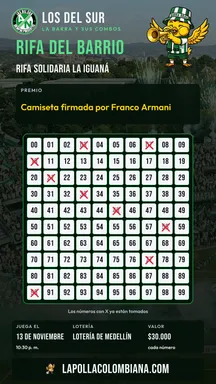
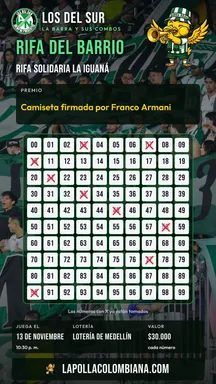
Use real Los Del Sur photos as raffle story backgrounds
The owner asked for the six Los Del Sur story templates to use real photos
of the barra instead of generated art. Each template now sits on a photo
from the official @ldsoficial Instagram account (the owner has the barra's
permission), cropped to 1080x1920 by scripts/bake-rifa-lds-fondos.py.

- Prize, date and domain panels stay nearly opaque; the board is
  semi-transparent so the photo shows around it.
- Header, title and raffle name get a text shadow (new optional
  nameShadow on StoryFrame; other templates are unchanged).
- Thumbnails regenerated; tests require a distinct photo per template.

diff --git a/lib/rifas/story-templates/designs-lds.tsx b/lib/rifas/story-templates/designs-lds.tsx
@@ -2,7 +2,10 @@
 // las de La Polla (StoryFrame): cambia el arte. Encabezado con el escudo de la
 // barra, pollito barrista grande arriba a la derecha y La Polla solo en el pie,
 // pequeña, junto al dominio. Fotos y escudo vienen como data URIs locales.
-import type { ReactNode } from "react";
+//
+// (2026-11-07, pedido del dueño) Las seis llevan de fondo una foto REAL de la
+// barra, del Instagram oficial @ldsoficial (scripts/bake-rifa-lds-fondos.py):
+// nada de arte generado. Los paneles dejan ver la foto alrededor del tablero.
 import { display, StoryFrame, type Treatment } from "./common";
 import type { StoryProps } from "./types";
 
@@ -10,17 +13,27 @@ const GREEN = "#1E9A44";
 const GREEN_LIGHT = "#5BE08A";
 const NIGHT = "#06140C";
 const WHITE = "#F5F7FA";
-const PANEL = "rgba(5, 18, 11, 0.9)";
+/** Premio, fecha y dominio: casi opacos, el texto se lee sobre cualquier foto. */
+const PANEL = "rgba(4, 16, 9, 0.84)";
+/** El tablero tiene casillas blancas propias: su fondo deja pasar más foto. */
+const BOARD = "rgba(4, 16, 9, 0.6)";
+/** Sombra para el texto que va directo sobre la foto. */
+const LIFT = "0 2px 4px rgba(0,0,0,0.9), 0 0 18px rgba(0,0,0,0.75)";
 
-function Art({ children }: { children: ReactNode }) {
-  return <svg width="1080" height="1920" viewBox="0 0 1080 1920" style={{ position: "absolute", top: 0, left: 0 }}>{children}</svg>;
+/**
+ * Oscurece arriba (encabezado y título) y abajo (fecha y dominio) y deja la
+ * foto más clara en el medio. `strength` sube todo para fotos de día.
+ */
+function shade(strength = 0) {
+  const a = (v: number) => Math.min(0.95, v + strength).toFixed(2);
+  return `linear-gradient(180deg, rgba(3,10,6,${a(0.56)}) 0%, rgba(3,10,6,${a(0.4)}) 14%, rgba(3,10,6,${a(0.36)}) 24%, rgba(3,10,6,${a(0.26)}) 45%, rgba(3,10,6,${a(0.4)}) 70%, rgba(3,10,6,${a(0.76)}) 100%)`;
 }
 
-function Photo({ src, shade }: { src: string | null; shade: string }) {
+function Photo({ src, strength }: { src: string | null; strength?: number }) {
   return <div style={{ display: "flex", position: "absolute", top: 0, left: 0, width: 1080, height: 1920 }}>
     {/* eslint-disable-next-line @next/next/no-img-element -- JPEG embedded in next/og */}
     {src && <img src={src} width={1080} height={1920} alt="" style={{ position: "absolute", top: 0, left: 0 }} />}
-    <div style={{ display: "flex", position: "absolute", top: 0, left: 0, width: 1080, height: 1920, backgroundImage: shade }} />
+    <div style={{ display: "flex", position: "absolute", top: 0, left: 0, width: 1080, height: 1920, backgroundImage: shade(strength) }} />
   </div>;
 }
 
@@ -29,91 +42,55 @@ function Header({ escudo }: { escudo: string }) {
     {/* eslint-disable-next-line @next/next/no-img-element -- PNG embedded in next/og */}
     <img src={escudo} width={132} height={132} alt="" />
     <div style={{ display: "flex", flexDirection: "column" }}>
-      <span style={{ ...display, fontSize: 76, color: WHITE }}>LOS DEL SUR</span>
-      <span style={{ fontSize: 24, letterSpacing: 5, color: GREEN_LIGHT }}>LA BARRA Y SUS COMBOS</span>
+      <span style={{ ...display, fontSize: 76, color: WHITE, textShadow: LIFT }}>LOS DEL SUR</span>
+      <span style={{ fontSize: 24, letterSpacing: 5, color: GREEN_LIGHT, textShadow: LIFT }}>LA BARRA Y SUS COMBOS</span>
     </div>
   </div>;
 }
 
-/** Base común: encabezado de la barra, pollito grande, casillas blancas con borde verde, La Polla al pie. */
-function lds(props: StoryProps, theme: Partial<Treatment> & { background: string }) {
+/** Base común: foto de la barra, encabezado, pollito grande, casillas blancas con borde verde, La Polla al pie. */
+function lds(props: StoryProps, theme: Partial<Treatment> & { strength?: number }) {
   const art = props.partner;
+  const { strength, titleStyle, ...rest } = theme;
   return StoryFrame(props, {
-    panel: PANEL, accent: GREEN_LIGHT, cell: WHITE, cellBorder: GREEN, radius: 10,
+    background: NIGHT, panel: PANEL, accent: GREEN_LIGHT, cell: WHITE, cellBorder: GREEN, radius: 10,
     title: "RIFA SUREÑA", titleSize: 100, titleTop: 190, nameWidth: 640,
-    pollitoSize: 320, pollitoTop: -170, pollitoRight: -50, footerLogo: true,
-    boardStyle: { border: `3px solid ${GREEN}` },
+    pollitoSize: 320, pollitoTop: -170, pollitoRight: -50, footerLogo: true, nameShadow: LIFT,
+    titleStyle: { textShadow: LIFT, ...titleStyle },
+    boardStyle: { border: `3px solid ${GREEN}`, background: BOARD },
     header: art ? <Header escudo={art.escudo} /> : undefined,
-    ...theme,
+    backdrop: <Photo src={art?.background ?? null} strength={strength} />,
+    ...rest,
   });
 }
 
 export function tribuna(props: StoryProps) {
-  return lds(props, {
-    background: NIGHT,
-    backdrop: <Photo src={props.partner?.background ?? null}
-      shade="linear-gradient(180deg, rgba(3,10,6,0.45) 0%, rgba(3,10,6,0.7) 30%, rgba(3,10,6,0.86) 60%, rgba(3,10,6,0.92) 100%)" />,
-  });
+  return lds(props, {});
 }
 
 export function combos(props: StoryProps) {
-  return lds(props, {
-    background: NIGHT, title: "RIFA DEL BARRIO",
-    backdrop: <Photo src={props.partner?.background ?? null}
-      shade="linear-gradient(180deg, rgba(3,10,6,0.5) 0%, rgba(3,10,6,0.78) 35%, rgba(3,10,6,0.9) 100%)" />,
-  });
+  return lds(props, { title: "RIFA DEL BARRIO", strength: 0.08 });
 }
 
 export function humo(props: StoryProps) {
-  return lds(props, {
-    background: "#0B3A1E",
-    backdrop: <Photo src={props.partner?.background ?? null}
-      shade="linear-gradient(180deg, rgba(4,26,12,0.55) 0%, rgba(4,26,12,0.72) 40%, rgba(4,26,12,0.85) 100%)" />,
-  });
+  return lds(props, {});
 }
 
 export function trapo(props: StoryProps) {
   const art = props.partner;
   return lds(props, {
-    background: "#070B08",
     // El trapo de la barra hace de título.
     titleNode: art
       ? <img src={art.trapo} width={620} height={104} alt="" style={{ marginBottom: 4 }} /> /* eslint-disable-line @next/next/no-img-element */
       : undefined,
-    backdrop: <Art>{Array.from({ length: 6 }, (_, i) => <rect key={i} x={i * 180 + 45} y="0" width="90" height="1920" fill={GREEN} opacity="0.32" />)}
-      <rect x="28" y="28" width="1024" height="1864" rx="28" fill="none" stroke={WHITE} strokeOpacity="0.35" strokeWidth="3" /></Art>,
   });
 }
 
 export function escudo(props: StoryProps) {
-  const art = props.partner;
-  return lds(props, {
-    background: NIGHT, title: "SIEMPRE PRESENTES", titleSize: 84,
-    backdrop: <div style={{ display: "flex", position: "absolute", top: 0, left: 0, width: 1080, height: 1920 }}>
-      <Art><circle cx="540" cy="1080" r="520" fill="none" stroke={GREEN} strokeWidth="26" opacity="0.5" />
-        <circle cx="540" cy="1080" r="470" fill="none" stroke={WHITE} strokeWidth="6" opacity="0.25" /></Art>
-      {/* eslint-disable-next-line @next/next/no-img-element -- PNG embedded in next/og */}
-      {art && <img src={art.escudo} width={900} height={900} alt="" style={{ position: "absolute", left: 90, top: 630, opacity: 0.16 }} />}
-    </div>,
-  });
-}
-
-/** Sombrillas verdes y blancas vistas desde arriba, como en la tribuna. */
-function umbrella({ x, y, r }: { x: number; y: number; r: number }, key: number) {
-  // Función, no componente: satori solo acepta elementos intrínsecos dentro de <svg>.
-  return <g key={key}>{Array.from({ length: 8 }, (_, i) => {
-    const a0 = (i * Math.PI) / 4;
-    const a1 = ((i + 1) * Math.PI) / 4;
-    const d = `M${x} ${y}L${x + r * Math.cos(a0)} ${y + r * Math.sin(a0)}A${r} ${r} 0 0 1 ${x + r * Math.cos(a1)} ${y + r * Math.sin(a1)}Z`;
-    return <path key={i} d={d} fill={i % 2 ? WHITE : GREEN} />;
-  })}<circle cx={x} cy={y} r={r * 0.08} fill="#0B3A1E" /></g>;
+  return lds(props, { title: "SIEMPRE PRESENTES", titleSize: 84 });
 }
 
 export function sombrillas(props: StoryProps) {
-  const spots = Array.from({ length: 30 }, (_, i) => ({ x: (i % 5) * 230 + (Math.floor(i / 5) % 2 ? 115 : 0) + 20, y: Math.floor(i / 5) * 330 + 60, r: 110 + (i * 37) % 40 }));
-  return lds(props, {
-    background: "#0B3A1E",
-    backdrop: <Art>{spots.map((s, i) => umbrella(s, i))}
-      <rect x="0" y="0" width="1080" height="1920" fill={NIGHT} opacity="0.55" /></Art>,
-  });
+  // Foto de día con cielo blanco: más sombra para que el texto blanco se lea igual.
+  return lds(props, { strength: 0.16 });
 }

diff --git a/lib/rifas/story-templates/common.tsx b/lib/rifas/story-templates/common.tsx
@@ -50,14 +50,16 @@ export function fitLines(text: string, width: number, height: number, maxSize: n
   throw new RangeError("Texto fuera del contrato de la historia.");
 }
 
-export function FittedText({ text, width, height, size, family = "Outfit", center = false, color, breakWords = true }: {
+export function FittedText({ text, width, height, size, family = "Outfit", center = false, color, breakWords = true, shadow }: {
   text: string; width: number; height: number; size: number; family?: "Bebas" | "Outfit"; center?: boolean; color?: string; breakWords?: boolean;
+  /** text-shadow para texto que va directo sobre una foto. */
+  shadow?: string;
 }) {
   const fitted = fitLines(text, width, height, size, family, breakWords);
   return <div style={{ display: "flex", flexDirection: "column", width, height, justifyContent: "center",
     alignItems: center ? "center" : "flex-start", fontFamily: family, fontWeight: family === "Bebas" ? 400 : 600,
     fontSize: fitted.fontSize, lineHeight: 1.12, color, letterSpacing: family === "Bebas" ? 1 : 0 }}>
-      {fitted.lines.map((line, i) => <span key={i} style={{ whiteSpace: "pre", flexShrink: 0 }}>{line}</span>)}
+      {fitted.lines.map((line, i) => <span key={i} style={{ whiteSpace: "pre", flexShrink: 0, ...(shadow ? { textShadow: shadow } : {}) }}>{line}</span>)}
   </div>;
 }
 
@@ -74,6 +76,8 @@ export interface Treatment {
   titleTop?: number; titleNode?: ReactNode;
   /** Pollito grande que sobresale del bloque del título. */
   pollitoSize?: number; pollitoTop?: number; pollitoRight?: number; nameWidth?: number;
+  /** Sombra del nombre de la rifa cuando va sobre una foto. */
+  nameShadow?: string;
 }
 
 /** X de número tomado: rojo de alerta de la marca (#FF3D57), un poco más profundo para leerse sobre casillas claras. */
@@ -139,7 +143,7 @@ export function StoryFrame(props: StoryProps, theme: Treatment) {
       {theme.titleNode ?? <span style={{ ...display, fontSize: theme.titleSize ?? 128, color: theme.accent ?? ink, ...theme.titleStyle }}>
         {theme.title ?? "RIFA"}
       </span>}
-      <FittedText text={r.name.toUpperCase()} width={pollito ? theme.nameWidth ?? 700 : 920} height={110} size={56} family="Bebas" center={center} />
+      <FittedText text={r.name.toUpperCase()} width={pollito ? theme.nameWidth ?? 700 : 920} height={110} size={56} family="Bebas" center={center} shadow={theme.nameShadow} />
       {pollito && <img src={pollito} width={theme.pollitoSize ?? 190} height={theme.pollitoSize ?? 190} alt="" /* eslint-disable-line @next/next/no-img-element */
         style={{ position: "absolute", right: theme.pollitoRight ?? 0, top: theme.pollitoTop ?? 10 }} />}
     </div>

diff --git a/tests/rifas-lds-story.test.ts b/tests/rifas-lds-story.test.ts
@@ -26,7 +26,7 @@ const props = (template: (typeof LDS_STORY_TEMPLATE_LIST)[number]) => ({
   partner: {
     escudo: file("assets/rifas-story/lds/escudo.png", "image/png"),
     trapo: file("assets/rifas-story/lds/trapo.png", "image/png"),
-    background: template.background ? file(`assets/rifas-story/lds/fondo-${template.background}.jpg`, "image/jpeg") : null,
+    background: file(`assets/rifas-story/lds/fondo-${template.background}.jpg`, "image/jpeg"),
   },
 });
 
@@ -45,6 +45,7 @@ describe("rifaPartner", () => {
 describe("plantillas de Los Del Sur", () => {
   it("6 propias y exclusivas: la rifa de la barra no ve las de La Polla, ni al revés", () => {
     expect(new Set(LDS_STORY_TEMPLATE_LIST.map((t) => t.key)).size).toBe(6);
+    expect(new Set(LDS_STORY_TEMPLATE_LIST.map((t) => t.background)).size).toBe(6);
     expect(storyTemplateOptions("lds").map((t) => t.key)).toEqual(LDS_STORY_TEMPLATE_LIST.map((t) => t.key));
     expect(storyTemplateOptions(null)).toBe(STORY_TEMPLATE_OPTIONS);
     expect(getStoryTemplate("neutra", "lds").key).toBe("lds-tribuna");
@@ -53,8 +54,9 @@ describe("plantillas de Los Del Sur", () => {
     expect(STORY_TEMPLATE_LIST.some((t) => t.key.startsWith("lds-"))).toBe(false);
   });
   it.each(LDS_STORY_TEMPLATE_LIST)("$key: arte local, miniatura y datos públicos completos", (template) => {
+    // Las seis van sobre una foto real de la barra (scripts/bake-rifa-lds-fondos.py), cada una distinta.
     for (const path of [`assets/rifas-story/lds/pollito-${template.pollito}.png`, `public/plantillas-rifa/${template.key}.webp`,
-      ...(template.background ? [`assets/rifas-story/lds/fondo-${template.background}.jpg`] : [])]) expect(existsSync(path)).toBe(true);
+      `assets/rifas-story/lds/fondo-${template.background}.jpg`]) expect(existsSync(path)).toBe(true);
     const p = props(template);
     const html = renderToStaticMarkup(template.render({ ...p, r: { ...r, buyer_phone: "PRIVADO" } as StoryData }));
     expect(html).not.toContain("PRIVADO");
@@ -64,6 +66,7 @@ describe("plantillas de Los Del Sur", () => {
     expect(html).toContain(">lapollacolombiana.com<");
     expect(html.includes(p.pollito)).toBe(true);
     expect(html.includes(p.partner.escudo)).toBe(true);
+    expect(html.includes(p.partner.background)).toBe(true);
     expect([...html.matchAll(/data-number="(\d+)"/g)]).toHaveLength(100);
     expect(html.match(/data-taken="true"/g)).toHaveLength(3);
     expect(html.match(/#FFD700/g)?.length ?? 0).toBeLessThanOrEqual(3);

diff --git a/lib/rifas/story-templates/catalog.ts b/lib/rifas/story-templates/catalog.ts
@@ -18,16 +18,17 @@ export type StoryTemplateKey = (typeof STORY_TEMPLATE_CATALOG)[number]["key"];
 /**
  * Plantillas de Los Del Sur (lib/rifas/partner.ts): solo para las rifas de la
  * barra, y esas rifas solo ven estas. Cada una lleva un pollito barrista
- * (assets/rifas-story/lds/pollito-<pollito>.png) y, si tiene foto, su fondo
- * (assets/rifas-story/lds/fondo-<background>.jpg).
+ * (assets/rifas-story/lds/pollito-<pollito>.png) y una foto real de la barra
+ * de fondo (assets/rifas-story/lds/fondo-<background>.jpg, del Instagram
+ * oficial @ldsoficial: scripts/bake-rifa-lds-fondos.py).
  */
 export const LDS_STORY_TEMPLATE_CATALOG = [
   { key: "lds-tribuna", label: "La tribuna", usesClub: false, partner: "lds", background: "tribuna", pollito: "pava" },
   { key: "lds-combos", label: "Los combos", usesClub: false, partner: "lds", background: "combos", pollito: "trompeta" },
   { key: "lds-humo", label: "Humo verde", usesClub: false, partner: "lds", background: "humo", pollito: "bombo" },
-  { key: "lds-trapo", label: "El trapo", usesClub: false, partner: "lds", background: null, pollito: "trapo" },
-  { key: "lds-escudo", label: "El escudo", usesClub: false, partner: "lds", background: null, pollito: "bandera" },
-  { key: "lds-sombrillas", label: "Sombrillas", usesClub: false, partner: "lds", background: null, pollito: "sombrilla" },
+  { key: "lds-trapo", label: "El trapo", usesClub: false, partner: "lds", background: "trapo", pollito: "trapo" },
+  { key: "lds-escudo", label: "El escudo", usesClub: false, partner: "lds", background: "escudo", pollito: "bandera" },
+  { key: "lds-sombrillas", label: "Sombrillas", usesClub: false, partner: "lds", background: "sombrillas", pollito: "sombrilla" },
 ] as const;
 export type LdsStoryTemplateKey = (typeof LDS_STORY_TEMPLATE_CATALOG)[number]["key"];
 export type AnyStoryTemplateKey = StoryTemplateKey | LdsStoryTemplateKey;

diff --git a/app/api/rifas/[slug]/historia/route.tsx b/app/api/rifas/[slug]/historia/route.tsx
@@ -52,7 +52,8 @@ export async function GET(request: Request, { params }: { params: Promise<{ slug
     asset("assets/rifas-story/logo.png", "image/png"),
     lds ? asset(`assets/rifas-story/lds/pollito-${lds.pollito}.png`, "image/png")
       : template.usesClub ? asset(`assets/rifas-story/pollito_${club.key}.png`, "image/png") : Promise.resolve(null),
-    // Arte de la barra (scripts/bake-rifa-lds-assets.py).
+    // Arte de la barra: escudo y trapo (scripts/bake-rifa-lds-assets.py) y la
+    // foto real de fondo (scripts/bake-rifa-lds-fondos.py).
     lds ? Promise.all([
       asset("assets/rifas-story/lds/escudo.png", "image/png"),
       asset("assets/rifas-story/lds/trapo.png", "image/png"),

diff --git a/scripts/bake-rifa-lds-fondos.py b/scripts/bake-rifa-lds-fondos.py
@@ -1,0 +1,59 @@
+#!/usr/bin/env python3
+# scripts/bake-rifa-lds-fondos.py <fotos_dir>
+#
+# Fondos de las seis plantillas de historia de Los Del Sur (lib/rifas/partner.ts):
+# fotos REALES de la barra, publicadas en el Instagram oficial @ldsoficial
+# (2026-11-07, pedido del dueño: «fotos de la barra de verdad, no cosa de AI»;
+# el dueño tiene permiso de la barra). Reemplazan los fondos generados de la
+# app de LDS (tribuna-sur.webp), que traían textos y marcas deformados.
+#
+# <fotos_dir>: los JPEG originales de cada publicación, nombrados <post>_<n>.jpg
+# (n = posición en el carrusel, desde 0). Se guardan fuera del repo
+# (Downloads/agent-work/la-polla-lds-fotos-20261107/originales/); para volver a
+# bajarlos, abrir https://www.instagram.com/p/<post>/ con sesión.
+#
+# Cada fondo es un recorte vertical 9:16 a 1080×1920 (JPEG: satori no decodifica
+# WebP). El encabezado y el título tapan la franja de arriba, así que el recorte
+# deja ahí lo más reconocible (banderas, escudos, humo). Requiere Pillow.
+import os
+import sys
+from PIL import Image
+
+ROOT = os.path.dirname(os.path.dirname(os.path.abspath(__file__)))
+STORY = os.path.join(ROOT, "assets", "rifas-story", "lds")
+fotos_dir = sys.argv[1]
+
+# fondo → (foto, centro x, centro y, zoom). Centros en fracción de la foto;
+# zoom 1 = todo el alto. El crédito de cada foto está en su publicación.
+FONDOS = {
+    # Banderas con el escudo y trapos de los combos, de noche.
+    "tribuna": ("De1p5lyoLey_3", 0.5, 0.6, 1.2),
+    # Trapos «Comuna 13», «De trapos» (📷 @luispabon_photography).
+    "combos": ("Dc7zloogPEe_0", 0.62, 0.5, 1.0),
+    # Humo verde y pólvora sobre la tribuna, de noche.
+    "humo": ("Ddst4sikWaR_0", 0.55, 0.4, 1.14),
+    # Trapo gigante «Los Del Sur» y banderas.
+    "trapo": ("De8MbpboLb5_3", 0.32, 0.55, 1.1),
+    # Banderas con el escudo de la barra arriba del trapo «Córdoba».
+    "escudo": ("Dch8PWCAC3p_2", 0.6, 0.5, 1.0),
+    # Sombrillas verdes y blancas en la baranda, arriba del trapo.
+    "sombrillas": ("Ddxeoj2IMjW_3", 0.78, 0.55, 1.15),
+}
+
+
+def bake(name, foto, cx, cy, zoom):
+    im = Image.open(os.path.join(fotos_dir, f"{foto}.jpg")).convert("RGB")
+    w, h = im.size
+    ch = round(h / zoom)
+    cw = round(ch * 9 / 16)
+    if cw > w:
+        cw, ch = w, round(w * 16 / 9)
+    left = min(max(round(w * cx - cw / 2), 0), w - cw)
+    top = min(max(round(h * cy - ch / 2), 0), h - ch)
+    im.crop((left, top, left + cw, top + ch)).resize((1080, 1920), Image.Resampling.LANCZOS).save(
+        os.path.join(STORY, f"fondo-{name}.jpg"), quality=80, optimize=True, progressive=True)
+    return f"{name}: {foto} {w}x{h} -> recorte {cw}x{ch} en ({left},{top})"
+
+
+for name, spec in FONDOS.items():
+    print(bake(name, *spec))

diff --git a/scripts/bake-rifa-lds-assets.py b/scripts/bake-rifa-lds-assets.py
@@ -2,16 +2,17 @@
 # scripts/bake-rifa-lds-assets.py <pollitos_dir> <lds_public_dir>
 #
 # Arte de Los Del Sur para la rifa solidaria La Iguaná (lib/rifas/partner.ts):
-# - assets/rifas-story/lds/: pollitos barristas (PNG con alfa), escudo, trapo y
-#   fondos 1080×1920 (JPEG) para la imagen de historia. next/og (satori) no
-#   decodifica WebP: todo va en PNG/JPEG.
+# - assets/rifas-story/lds/: pollitos barristas (PNG con alfa), escudo y trapo
+#   para la imagen de historia. next/og (satori) no decodifica WebP: todo va en
+#   PNG. Los fondos (fotos reales de la barra) salen de
+#   scripts/bake-rifa-lds-fondos.py.
 # - public/rifas/lds/escudo-{128,256}.webp para la portada y el inicio.
 #
 # <pollitos_dir>: originales de Qwen Image Edit 2511 (DGX, ComfyUI), editados a
 # partir de public/pollitos/pollito_verde_base.webp sobre fondo blanco. Se
 # guardan fuera del repo (Downloads/agent-work/lds-pollitos-20261107/).
 # <lds_public_dir>: los-del-sur-app/apps/pwa-los-del-sur/public (escudo.png,
-# trapos/los-del-sur.webp, tribuna-sur.webp, design-assets/barra-bg-poster.jpg).
+# trapos/los-del-sur.webp).
 # Requiere Pillow con soporte WebP.
 import os
 import sys
@@ -75,18 +76,4 @@ trapo = Image.open(os.path.join(lds_dir, "trapos", "los-del-sur.webp")).convert(
 trapo = trapo.resize((1240, round(1240 * trapo.height / trapo.width)), Image.LANCZOS)
 trapo.quantize(colors=128, method=Image.Quantize.FASTOCTREE, dither=Image.Dither.NONE).save(os.path.join(STORY, "trapo.png"), optimize=True)
 
-
-def background(src, center_x, name):
-    """Recorte vertical 9:16 alrededor de center_x (fracción del ancho), a 1080×1920."""
-    im = Image.open(src).convert("RGB")
-    w, h = im.size
-    cw = round(h * 9 / 16)
-    left = min(max(round(w * center_x - cw / 2), 0), w - cw)
-    im.crop((left, 0, left + cw, h)).resize((1080, 1920), Image.LANCZOS).save(
-        os.path.join(STORY, f"fondo-{name}.jpg"), quality=78, optimize=True, progressive=True)
-
-
-background(os.path.join(lds_dir, "tribuna-sur.webp"), 0.5, "tribuna")
-background(os.path.join(lds_dir, "tribuna-sur.webp"), 0.22, "combos")
-background(os.path.join(lds_dir, "design-assets", "barra-bg-poster.jpg"), 0.5, "humo")
 print("ok", sorted(os.listdir(STORY)), sorted(os.listdir(PUBLIC)))

diff --git a/docs/rifas.md b/docs/rifas.md
@@ -246,11 +246,19 @@ recibe el slug de SQL); el test exige que ambos sean la misma rifa.
   `lds-sombrillas`, en `story-templates/designs-lds.tsx`) y las demás rifas no
   las ven. Encabezado con escudo, pollito barrista grande y La Polla solo como
   logo pequeño junto al dominio. Arte en `assets/rifas-story/lds/`
-  (`scripts/bake-rifa-lds-assets.py`): escudo, trapo y fotos de la app de LDS, y
+  (`scripts/bake-rifa-lds-assets.py`): escudo, trapo de la app de LDS y
   seis pollitos barristas (pava «BARRA BRAVA», bombo, bandera, trompeta,
   sombrilla, trapo) editados con Qwen Image Edit 2511 en el DGX a partir de
   `pollito_verde_base`. Originales en `Downloads/agent-work/lds-pollitos-20261107/`.
   La web conserva los pollitos de siempre.
+- Fondos (7-nov-2026, pedido del dueño): las seis plantillas van sobre **fotos
+  reales de la barra** del Instagram oficial @ldsoficial, nunca arte generado
+  (los fondos anteriores eran generados y traían letras y marcas deformadas).
+  `scripts/bake-rifa-lds-fondos.py` recorta cada foto a 1080×1920 y documenta
+  la publicación de origen; los originales quedan fuera del repo, en
+  `Downloads/agent-work/la-polla-lds-fotos-20261107/originales/`. El dueño
+  tiene permiso de la barra para usar sus fotos y su escudo. Los paneles son
+  semitransparentes para que la foto se vea alrededor del tablero.
 - Prueba: `tests/rifas-lds-story.test.ts`.
 
 ### «¿Eres de un combo?» (7-nov-2026, migración 180)
